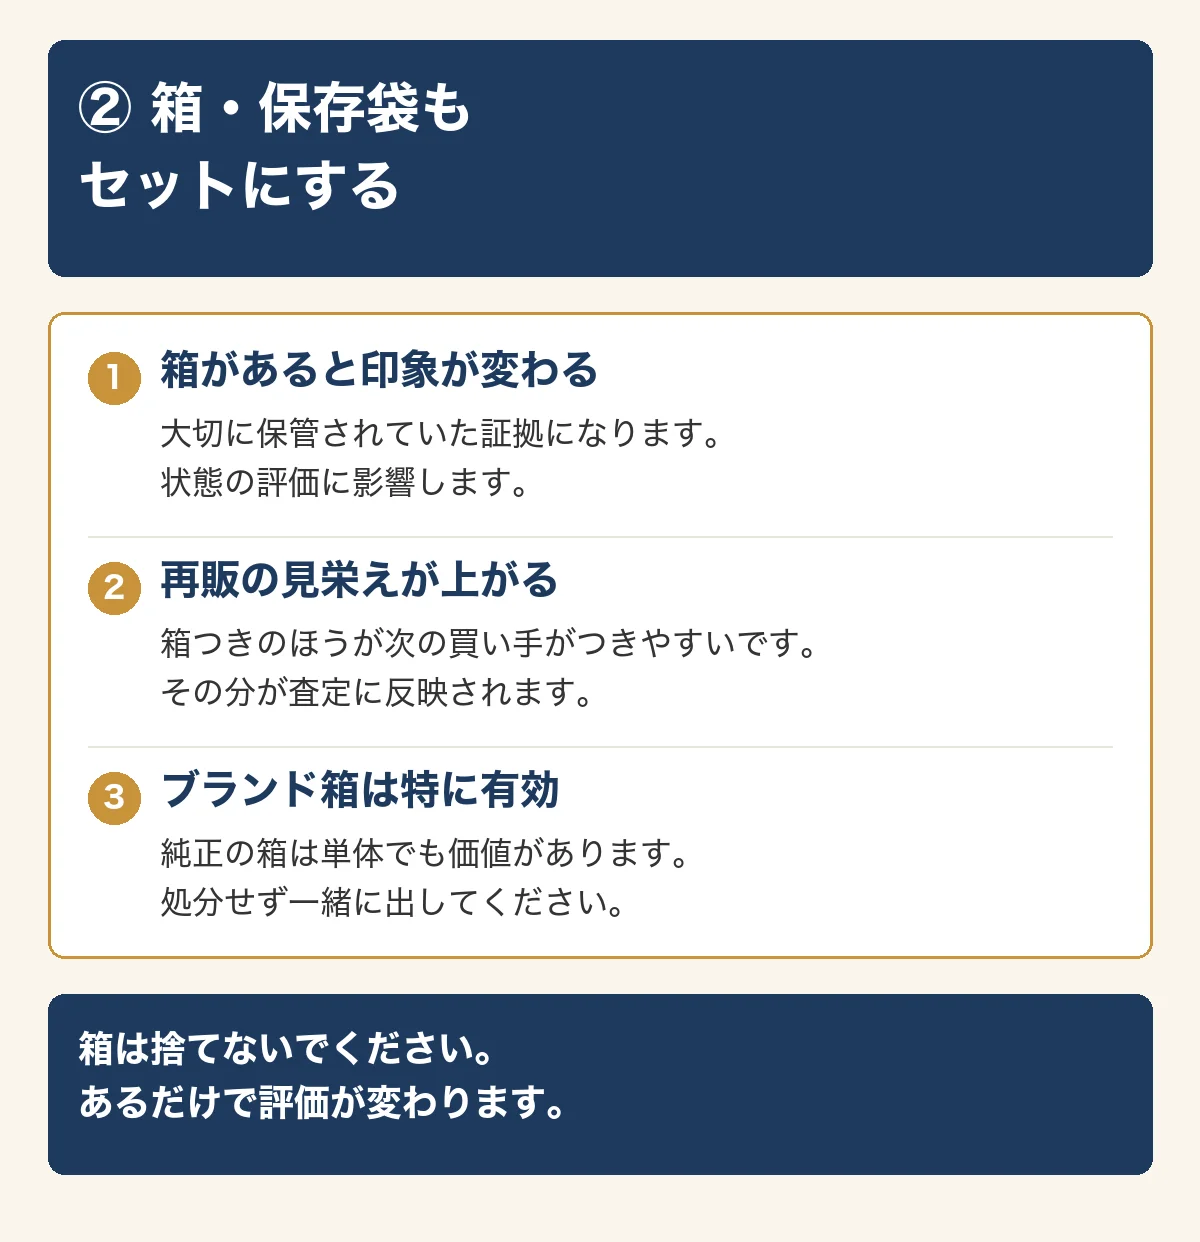
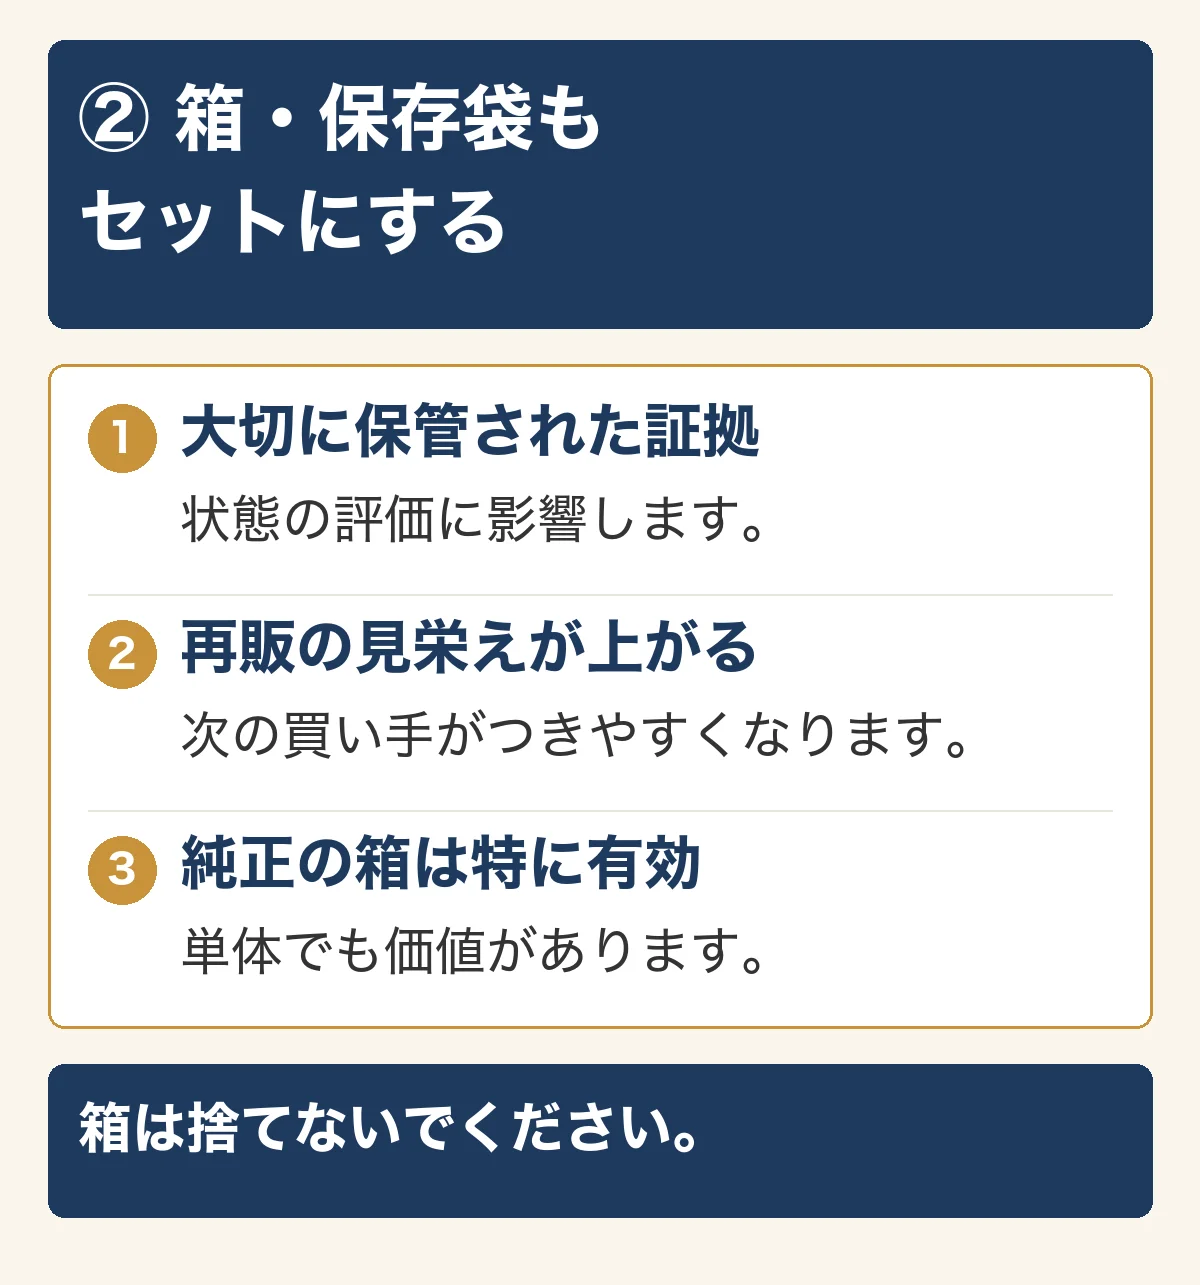
離婚記事：KWの答え「7つのコツ」を1本目のH2へ／図解の文字を1.6倍に
■ H2の並べ替え
タイトルのKW「7つのコツ」が4番目にあり、そこまで読む人は10人中3〜4人だった。
先頭に移動し、記事を開いてすぐ答えが出る形にする。移動で切れた前章参照2箇所も修正。

■ 図解17枚を作り直し
スマホ幅375pxで本文16px相当にするには1200px画像内で51px必要だが、
32pxしかなく「画像内の文字は本文と同じくらい」を満たしていなかった。
本文32→51px・見出し54→72pxに引き上げ、1枚あたりの項目を3つまでに絞る。

Changed region(s): [[0.0308, 0.0612, 0.9867, 0.9179]]

diff --git a/scripts/gen_blog_figure.py b/scripts/gen_blog_figure.py
@@ -28,11 +28,13 @@ FONT_BOLD = "/System/Library/Fonts/ヒラギノ角ゴシック W7.ttc"
 FONT_MED = "/System/Library/Fonts/ヒラギノ角ゴシック W6.ttc"
 FONT_REG = "/System/Library/Fonts/ヒラギノ角ゴシック W4.ttc"
 
-# スマホで拡大せず読める下限（1200px幅に対して）
-SZ_TITLE = 54
-SZ_SUB = 40
-SZ_BODY = 32
-SZ_CONC = 36
+# スマホ実寸で読める下限。
+# 幅375pxのスマホで本文16px相当にするには 1200px画像内で 16*1200/375 = 51px 必要。
+# 1枚の項目は3つまで（詰め込むと文字を小さくせざるを得なくなる）。
+SZ_TITLE = 72
+SZ_SUB = 58
+SZ_BODY = 51
+SZ_CONC = 54
 
 
 def font(path, size):
@@ -73,8 +75,8 @@ def measure(spec):
     # 本体
     h += 36
     for it in spec["items"]:
-        sl = wrap(dummy, it["head"], f_sub, W - pad * 2 - 120)
-        bl = wrap(dummy, it.get("body", ""), f_body, W - pad * 2 - 120)
+        sl = wrap(dummy, it["head"], f_sub, W - pad * 2 - 140)
+        bl = wrap(dummy, it.get("body", ""), f_body, W - pad * 2 - 140)
         h += len(sl) * int(SZ_SUB * 1.4) + 12 + len(bl) * int(SZ_BODY * 1.55) + 44
     h += 20
     # フッター
@@ -109,9 +111,9 @@ def render(spec, out_path):
     body_top = y
     bh = 36
     for it in spec["items"]:
-        bh += len(wrap(d, it["head"], f_sub, W - pad * 2 - 120)) * int(SZ_SUB * 1.4)
+        bh += len(wrap(d, it["head"], f_sub, W - pad * 2 - 140)) * int(SZ_SUB * 1.4)
         bh += 12
-        bh += len(wrap(d, it.get("body", ""), f_body, W - pad * 2 - 120)) * int(SZ_BODY * 1.55)
+        bh += len(wrap(d, it.get("body", ""), f_body, W - pad * 2 - 140)) * int(SZ_BODY * 1.55)
         bh += 44
     rounded(d, (pad, body_top, W - pad, body_top + bh - 20), 16, WHITE, GOLD, 3)
     yy = y + 36
@@ -120,19 +122,19 @@ def render(spec, out_path):
             d.line((pad + 40, yy - 22, W - pad - 40, yy - 22), fill=LINE, width=2)
         # 金の番号バッジ
         bx, by = pad + 40, yy + 4
-        d.ellipse((bx, by, bx + 52, by + 52), fill=GOLD)
+        d.ellipse((bx, by, bx + 68, by + 68), fill=GOLD)
         num = str(i)
-        nf = font(FONT_BOLD, 30)
+        nf = font(FONT_BOLD, 40)
         nw = d.textlength(num, font=nf)
-        d.text((bx + 26 - nw / 2, by + 9), num, font=nf, fill=WHITE)
+        d.text((bx + 34 - nw / 2, by + 12), num, font=nf, fill=WHITE)
         # 小見出し（紺）
-        tx = pad + 40 + 72
-        for ln in wrap(d, it["head"], f_sub, W - pad * 2 - 120):
+        tx = pad + 40 + 92
+        for ln in wrap(d, it["head"], f_sub, W - pad * 2 - 140):
             d.text((tx, yy), ln, font=f_sub, fill=NAVY)
             yy += int(SZ_SUB * 1.4)
         yy += 12
         # 説明（墨）
-        for ln in wrap(d, it.get("body", ""), f_body, W - pad * 2 - 120):
+        for ln in wrap(d, it.get("body", ""), f_body, W - pad * 2 - 140):
             d.text((tx, yy), ln, font=f_body, fill=INK)
             yy += int(SZ_BODY * 1.55)
         yy += 44

diff --git a/src/content/blog/rikon-kekkonyubiwa.md b/src/content/blog/rikon-kekkonyubiwa.md
@@ -81,6 +81,58 @@ related:
   <img border="0" width="1" height="1" src="https://www18.a8.net/0.gif?a8mat=4B1SPX+9VFTP6+56WW+5YRHE" alt="">
 </div>
 
+<h2>査定額を最大化する7つのコツ【業界裏ワザ】</h2>
+
+<img src="/blog-images/rikon/r4-h2.webp" alt="査定額を最大化する7つのコツ" width="1200" loading="lazy" decoding="async" style="width:100%;height:auto;border-radius:10px;margin:22px 0;">
+
+<p>結論から入ります。同じ指輪でも、準備と業者選びで査定額は変わります。私が現役時代に「これやってる人は得してるな」と感じた7つを、先にまとめて共有します。</p>
+
+<h3>① 鑑定書・ギャランティカードを必ず一緒に出す</h3>
+<img src="/blog-images/rikon/r4-h3a.webp" alt="① 鑑定書・ギャランティカードを必ず一緒に出す" width="1200" loading="lazy" decoding="async" style="width:100%;height:auto;border-radius:10px;margin:22px 0;">
+
+<p>婚約指輪の鑑定書、ブランド指輪のギャランティカード（保証書）は<strong>査定額を数千〜数万円押し上げる</strong>必須アイテム。引き出しの奥でも探して同梱を。</p>
+
+<h3>② 箱・保存袋もセットにする</h3>
+<img src="/blog-images/rikon/r4-h3b.webp" alt="② 箱・保存袋もセットにする" width="1200" loading="lazy" decoding="async" style="width:100%;height:auto;border-radius:10px;margin:22px 0;">
+
+<p>ティファニーのブルーボックス・カルティエの赤ケースなど、ブランド付属品は中古市場で「フルセット」として高値が付きます。</p>
+
+<h3>③ 査定前に軽くクリーニング</h3>
+<img src="/blog-images/rikon/r4-h3c.webp" alt="③ 査定前に軽くクリーニング" width="1200" loading="lazy" decoding="async" style="width:100%;height:auto;border-radius:10px;margin:22px 0;">
+
+<p>柔らかい布で拭く、ぬるま湯と中性洗剤で軽く洗うだけで「大切に使われていた品」と評価されます。<strong>鑑定士も人間です</strong>。</p>
+
+<h3>④ 必ず2〜3社で相見積もり</h3>
+<img src="/blog-images/rikon/r4-h3d.webp" alt="④ 必ず2〜3社で相見積もり" width="1200" loading="lazy" decoding="async" style="width:100%;height:auto;border-radius:10px;margin:22px 0;">
+
+<p>業者によって得意ブランド・在庫状況・販路が違うため、査定額に<strong>数万円差が出ることも珍しくありません</strong>。最初の1社で即決めずに比較を。</p>
+
+<h3>⑤ 金・プラチナ高値圏の今が売り時</h3>
+<img src="/blog-images/rikon/r4-h3e.webp" alt="⑤ 金・プラチナ高値圏の今が売り時" width="1200" loading="lazy" decoding="async" style="width:100%;height:auto;border-radius:10px;margin:22px 0;">
+
+<p>2026年は金が歴史的な高値圏。5年前と比べて<strong>同じ指輪が1.5〜2倍の値段で売れる</strong>ケースも普通です。「いつか売ろう」は基本損です。</p>
+
+<h3>⑥ 業者の買取強化キャンペーンを狙う</h3>
+<img src="/blog-images/rikon/r4-h3f.webp" alt="⑥ 業者の買取強化キャンペーンを狙う" width="1200" loading="lazy" decoding="async" style="width:100%;height:auto;border-radius:10px;margin:22px 0;">
+
+<p>多くの業者は定期的に「買取金額10%UP」「ジュエリー買取強化」のキャンペーンを実施しています。LINE登録・公式サイトで事前確認を。</p>
+
+<h3>⑦ 「離婚なので…」と話さない</h3>
+<img src="/blog-images/rikon/r4-h3g.webp" alt="⑦ 「離婚なので…」と話さない" width="1200" loading="lazy" decoding="async" style="width:100%;height:auto;border-radius:10px;margin:22px 0;">
+
+<p>業者には事情を細かく説明しなくてOKです。<strong>「不要になったので査定をお願いします」だけで十分</strong>。プライバシーを守りつつ、感情を持ち込まずに冷静に交渉できます。</p>
+
+<div style="background:#FFF8E1;border-left:5px solid #C8923A;border-radius:6px;padding:18px 22px;margin:28px 0;">
+<div style="font-size:13px;color:#C8923A;font-weight:bold;margin-bottom:6px;">💡 結論</div>
+<div>付属品・相見積もり・タイミングの3つだけでも、査定額は数千〜数万円変わる。手間を惜しまない人だけが得をする。</div>
+</div>
+
+<div style="background:#F8F4E6;border:1px solid #D4A574;border-radius:8px;padding:16px 18px;margin:28px 0;">
+  <p style="margin:0 0 12px;font-size:0.95em;">ここまでのコツを押さえた状態で査定に出すのが、いちばん高く売れる形です。</p>
+  <a href="https://px.a8.net/svt/ejp?a8mat=4B1SPX+9VFTP6+56WW+5YRHE" rel="sponsored nofollow" target="_blank" class="gold-cta-shine" style="display:block;background:linear-gradient(135deg,#D4A574,#C8923A);color:#fff;text-align:center;padding:15px 20px;border-radius:8px;text-decoration:none;font-weight:bold;box-shadow:0 4px 14px rgba(200,146,58,0.42);">▶ ブランドオフで結婚指輪の無料査定を申し込む</a>
+  <img border="0" width="1" height="1" src="https://www18.a8.net/0.gif?a8mat=4B1SPX+9VFTP6+56WW+5YRHE" alt="">
+</div>
+
 <h2>離婚後の結婚指輪、約4割が「売る」を選んでいる</h2>
 
 <img src="/blog-images/rikon/r1-h2.webp" alt="離婚後の結婚指輪、約4割が「売る」を選んでいる" width="1200" loading="lazy" decoding="async" style="width:100%;height:auto;border-radius:10px;margin:22px 0;">
@@ -108,7 +160,7 @@ related:
 
 <img src="/blog-images/rikon/r2-h2.webp" alt="婚約指輪は離婚で売る？返す？元業界人の結論" width="1200" loading="lazy" decoding="async" style="width:100%;height:auto;border-radius:10px;margin:22px 0;">
 
-<p>「離婚で結婚指輪は売る人が4割」とお伝えしましたが、<strong>婚約指輪はどうすればいいの？</strong>と迷われる方が非常に多いポイントです。「婚約指輪 売る 離婚」というキーワードは検索でもよく見られる頻出問題。結論からお伝えします。</p>
+<p>結婚指輪の話をしてきましたが、<strong>婚約指輪はどうすればいいの？</strong>と迷われる方が非常に多いポイントです。「婚約指輪 売る 離婚」というキーワードは検索でもよく見られる頻出問題。結論からお伝えします。</p>
 
 <div style="background:#FFF8E1;border-left:5px solid #C8923A;border-radius:6px;padding:18px 22px;margin:28px 0;">
 <div style="font-size:13px;color:#C8923A;font-weight:bold;margin-bottom:6px;">💡 結論</div>
@@ -229,58 +281,6 @@ related:
 <div style="background:#FFF8E1;border-left:5px solid #C8923A;border-radius:6px;padding:18px 22px;margin:28px 0;">
 <div style="font-size:13px;color:#C8923A;font-weight:bold;margin-bottom:6px;">💡 結論</div>
 <div>刻印・傷・変形・石の取れ — どれも素材価値はゼロにならない。「もう価値ない」と思って捨てるのが一番損。</div>
-</div>
-
-<h2>査定額を最大化する7つのコツ【業界裏ワザ】</h2>
-
-<img src="/blog-images/rikon/r4-h2.webp" alt="査定額を最大化する7つのコツ" width="1200" loading="lazy" decoding="async" style="width:100%;height:auto;border-radius:10px;margin:22px 0;">
-
-<p>同じ指輪でも、準備と業者選びで査定額は変わります。私が現役時代に「これやってる人は得してるな」と感じた7つを共有します。</p>
-
-<h3>① 鑑定書・ギャランティカードを必ず一緒に出す</h3>
-<img src="/blog-images/rikon/r4-h3a.webp" alt="① 鑑定書・ギャランティカードを必ず一緒に出す" width="1200" loading="lazy" decoding="async" style="width:100%;height:auto;border-radius:10px;margin:22px 0;">
-
-<p>婚約指輪の鑑定書、ブランド指輪のギャランティカード（保証書）は<strong>査定額を数千〜数万円押し上げる</strong>必須アイテム。引き出しの奥でも探して同梱を。</p>
-
-<h3>② 箱・保存袋もセットにする</h3>
-<img src="/blog-images/rikon/r4-h3b.webp" alt="② 箱・保存袋もセットにする" width="1200" loading="lazy" decoding="async" style="width:100%;height:auto;border-radius:10px;margin:22px 0;">
-
-<p>ティファニーのブルーボックス・カルティエの赤ケースなど、ブランド付属品は中古市場で「フルセット」として高値が付きます。</p>
-
-<h3>③ 査定前に軽くクリーニング</h3>
-<img src="/blog-images/rikon/r4-h3c.webp" alt="③ 査定前に軽くクリーニング" width="1200" loading="lazy" decoding="async" style="width:100%;height:auto;border-radius:10px;margin:22px 0;">
-
-<p>柔らかい布で拭く、ぬるま湯と中性洗剤で軽く洗うだけで「大切に使われていた品」と評価されます。<strong>鑑定士も人間です</strong>。</p>
-
-<h3>④ 必ず2〜3社で相見積もり</h3>
-<img src="/blog-images/rikon/r4-h3d.webp" alt="④ 必ず2〜3社で相見積もり" width="1200" loading="lazy" decoding="async" style="width:100%;height:auto;border-radius:10px;margin:22px 0;">
-
-<p>業者によって得意ブランド・在庫状況・販路が違うため、査定額に<strong>数万円差が出ることも珍しくありません</strong>。最初の1社で即決めずに比較を。</p>
-
-<h3>⑤ 金・プラチナ高値圏の今が売り時</h3>
-<img src="/blog-images/rikon/r4-h3e.webp" alt="⑤ 金・プラチナ高値圏の今が売り時" width="1200" loading="lazy" decoding="async" style="width:100%;height:auto;border-radius:10px;margin:22px 0;">
-
-<p>2026年は金が歴史的な高値圏。5年前と比べて<strong>同じ指輪が1.5〜2倍の値段で売れる</strong>ケースも普通です。「いつか売ろう」は基本損です。</p>
-
-<h3>⑥ 業者の買取強化キャンペーンを狙う</h3>
-<img src="/blog-images/rikon/r4-h3f.webp" alt="⑥ 業者の買取強化キャンペーンを狙う" width="1200" loading="lazy" decoding="async" style="width:100%;height:auto;border-radius:10px;margin:22px 0;">
-
-<p>多くの業者は定期的に「買取金額10%UP」「ジュエリー買取強化」のキャンペーンを実施しています。LINE登録・公式サイトで事前確認を。</p>
-
-<h3>⑦ 「離婚なので…」と話さない</h3>
-<img src="/blog-images/rikon/r4-h3g.webp" alt="⑦ 「離婚なので…」と話さない" width="1200" loading="lazy" decoding="async" style="width:100%;height:auto;border-radius:10px;margin:22px 0;">
-
-<p>業者には事情を細かく説明しなくてOKです。<strong>「不要になったので査定をお願いします」だけで十分</strong>。プライバシーを守りつつ、感情を持ち込まずに冷静に交渉できます。</p>
-
-<div style="background:#FFF8E1;border-left:5px solid #C8923A;border-radius:6px;padding:18px 22px;margin:28px 0;">
-<div style="font-size:13px;color:#C8923A;font-weight:bold;margin-bottom:6px;">💡 結論</div>
-<div>付属品・相見積もり・タイミングの3つだけでも、査定額は数千〜数万円変わる。手間を惜しまない人だけが得をする。</div>
-</div>
-
-<div style="background:#F8F4E6;border:1px solid #D4A574;border-radius:8px;padding:16px 18px;margin:28px 0;">
-  <p style="margin:0 0 12px;font-size:0.95em;">ここまでのコツを押さえた状態で査定に出すのが、いちばん高く売れる形です。</p>
-  <a href="https://px.a8.net/svt/ejp?a8mat=4B1SPX+9VFTP6+56WW+5YRHE" rel="sponsored nofollow" target="_blank" class="gold-cta-shine" style="display:block;background:linear-gradient(135deg,#D4A574,#C8923A);color:#fff;text-align:center;padding:15px 20px;border-radius:8px;text-decoration:none;font-weight:bold;box-shadow:0 4px 14px rgba(200,146,58,0.42);">▶ ブランドオフで結婚指輪の無料査定を申し込む</a>
-  <img border="0" width="1" height="1" src="https://www18.a8.net/0.gif?a8mat=4B1SPX+9VFTP6+56WW+5YRHE" alt="">
 </div>
 
 <h2>結婚指輪の買取おすすめ3社｜タイプ別の使い分け</h2>
